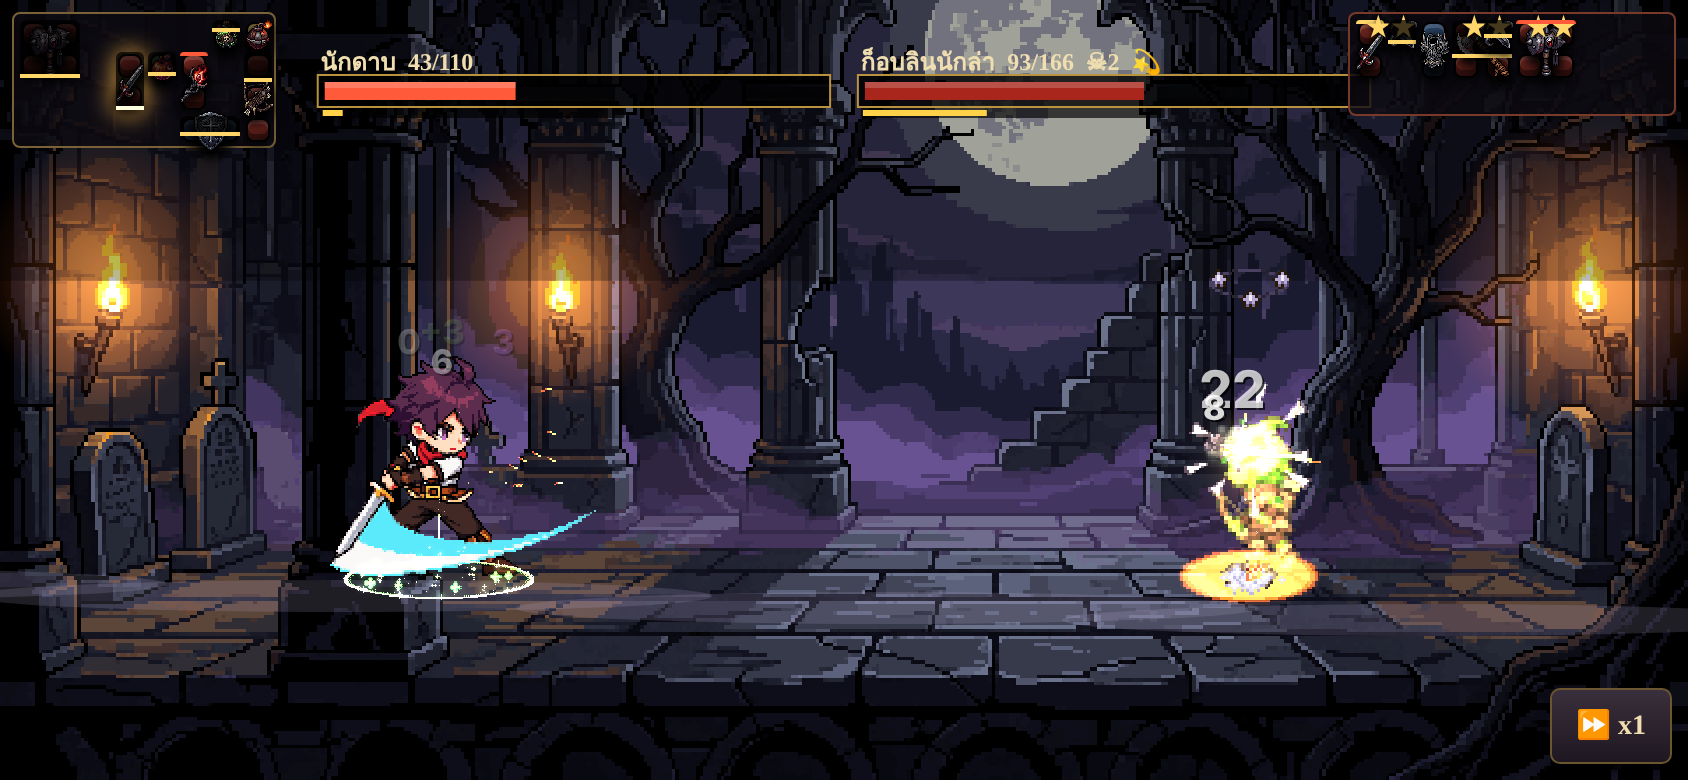
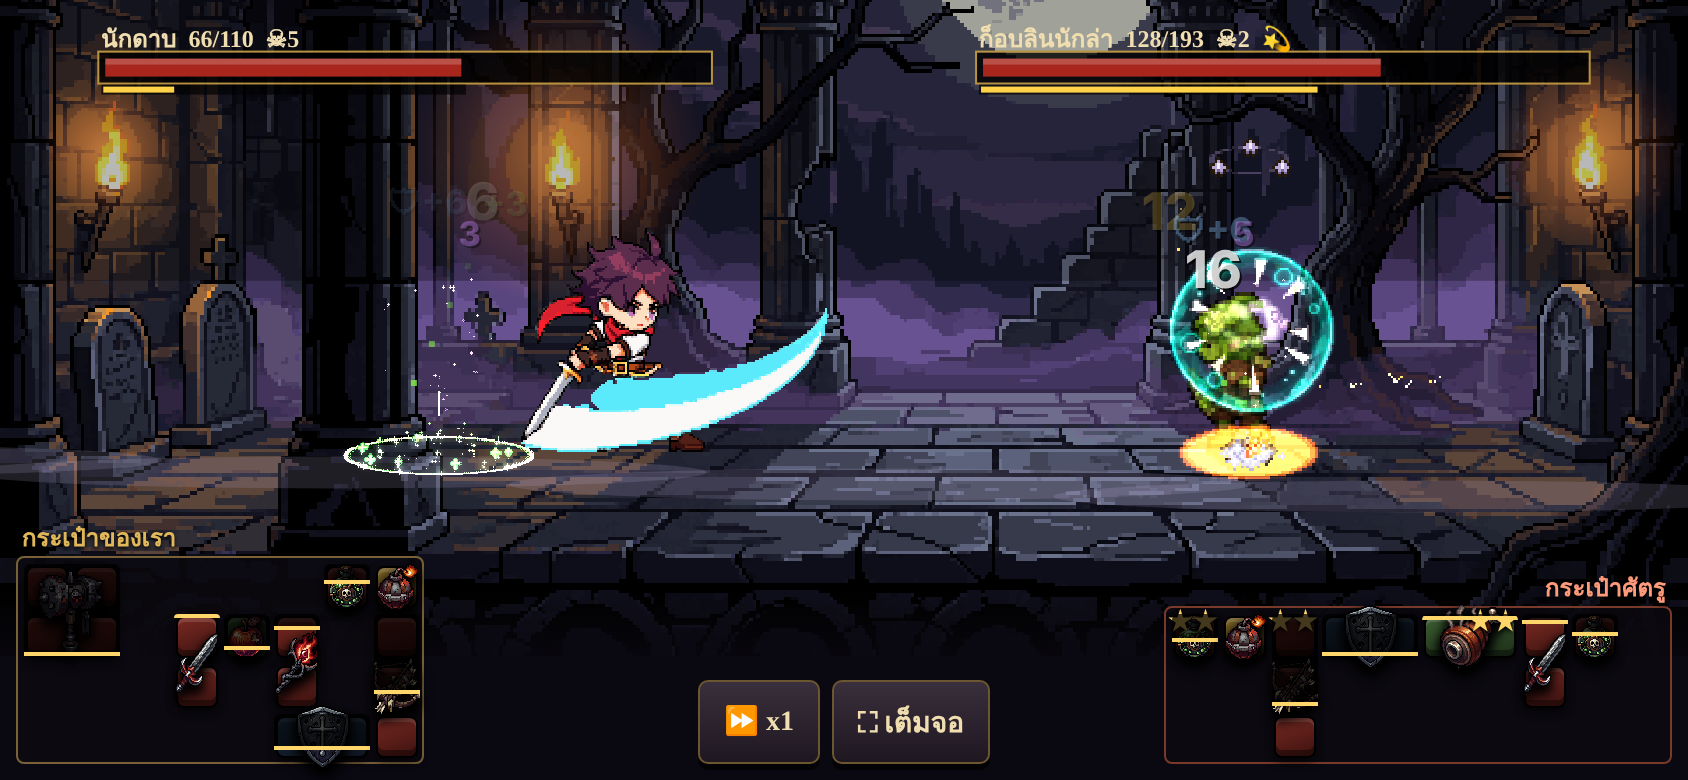
bag.html: battle layout with both bags along the bottom
Claude-Session: https://claude.ai/code/session_01TXxUxQ6wjWh66ESj3NLopA

diff --git a/bag.html b/bag.html
@@ -61,8 +61,8 @@ h1{margin:0;font-size:17px;color:#e0b85a;letter-spacing:2px;text-shadow:0 2px 4p
 .it b .ico{filter:drop-shadow(0 3px 3px #000c)}
 .it s{position:absolute;left:1px;right:1px;top:1px;background:#000b;border-bottom:2px solid #ffd66a;pointer-events:none;text-decoration:none;border-radius:3px 3px 0 0}.it s.wait{border-bottom-color:#ff5a3a;background:#3a0808b0}
 /* battle = full screen: the arena covers everything, both bags sit as small grids in the top corners */
-body.bt #arena{position:fixed;inset:0;z-index:5;border:0;border-radius:0}body.bt #btns{position:fixed;right:8px;bottom:8px;z-index:6}
-#mybag,#fbag{position:absolute;top:6px;background:#0d0a10cc;border:1px solid #7a6238;border-radius:4px}#mybag{left:6px}#fbag{right:6px;border-color:#7a3a2a}
+body.bt #arena{position:fixed;inset:0;z-index:5;border:0;border-radius:0}body.bt #btns{position:fixed;left:50%;transform:translateX(-50%);bottom:8px;z-index:6;flex-wrap:nowrap}
+#mybag,#fbag{position:absolute;bottom:8px;background:#0d0a10cc;border:1px solid #7a6238;border-radius:4px}#mybag{left:8px}#fbag{right:8px;border-color:#7a3a2a}#mybag:before,#fbag:before{content:'กระเป๋าของเรา';position:absolute;left:2px;top:-18px;font-size:12px;color:#e0b85a;text-shadow:0 1px 2px #000;white-space:nowrap}#fbag:before{content:'กระเป๋าศัตรู';left:auto;right:2px;color:#ff9a7a}
 </style></head><body>
 <div id="app"><div id="left"><div id="grid"></div><div id="tray"></div></div>
 <div id="right"><h1>⚔ กระเป๋านักดาบ · ตำนานรัตติกาล</h1><div id="top"></div><div id="shop"></div><div id="arena"><canvas id="cv"></canvas><div id="foe"></div><div id="mybag"></div><div id="fbag"></div></div>
@@ -108,7 +108,7 @@ const MOB={wolf:[50,38,6],shroom:[30,27,6],skeleton:[54,51,6],boar_guard:[74,69,
 // weapon effects: sprite sheets we already own in fx/ (manifest.json gives cell size, frames, anchor); drawn on the fighter that is hit / helped
 const FXI={},FXM={};fetch('fx/manifest.json').then(r=>r.json()).then(m=>{for(const k of['hit','crit','blunt','toxic','healring','cshield','blast','cfire0','gslam','zapice','blindstars','spark','poof']){FXM[k]=m[k];FXI[k]=new Image();FXI[k].src='fx/'+k+'.png'}});
 const WFX={dagger:['hit',1.5],sword:['hit',2],bow:['spark',1.6],axe:['crit',1.5],hammer:['gslam',2.2],wand:['blast',1.5],poison:['toxic',.9],bomb:['blast',3]};
-const FB=16,MELEE={dagger:[15,16,17],sword:[14,15,16,17],axe:[28,29,30,31],hammer:[39,40,41,42]},SPIN=[125,126,127,128,129,130];   // hero clips used for his own weapons: cells of chibi_pl.png (10+n = combo frame n, 120+ = spin)
+let FB=16;const MELEE={dagger:[15,16,17],sword:[14,15,16,17],axe:[28,29,30,31],hammer:[39,40,41,42]},SPIN=[125,126,127,128,129,130];   // hero clips used for his own weapons: cells of chibi_pl.png (10+n = combo frame n, 120+ = spin)
 const GW=8,GH=5;let CS=52,G,UID=1,sel=null,spd=+(localStorage.getItem('bag.spd')||1),BT=null;
 const rot=(sh,r)=>{let c=sh.map(p=>p.slice());for(let i=0;i<r;i++)c=c.map(([x,y])=>[-y,x]);const mx=Math.min(...c.map(p=>p[0])),my=Math.min(...c.map(p=>p[1]));return c.map(([x,y])=>[x-mx,y-my])};
 const cellsOf=(o,x=o.x,y=o.y,r=o.r)=>rot(IT[o.id].sh,r).map(([a,b])=>[x+a,y+b]);
@@ -201,7 +201,7 @@ for(const ev of['fullscreenchange','webkitfullscreenchange'])document.addEventLi
 const RAB=new Image();RAB.src='art/td/map1/hero_rabbit.png';let HK=localStorage.getItem('bag.hero')||'sword';const HN=()=>HK==='rabbit'?'กระต่ายนักสู้':'นักดาบ';
 const HERO=new Image();HERO.src='art/poses/combo/chibi_pl.png';const MIM={};for(const k in MOB){MIM[k]=new Image();MIM[k].src='art/td/map1/mob_'+k+'.png'}
 function startBattle(){const mine=G.items.filter(o=>o.bag);if(!mine.some(o=>IT[o.id].t==='w'))return say('⚠ ในกระเป๋าไม่มีอาวุธเลย! ใส่อาวุธ (สีแดง) อย่างน้อย 1 ชิ้นก่อน');sel=null;
- BT={A:build(mine,74+G.round*6),B:foe(G.round),T:0,fx:[],pj:[],sh:0,an:null,vf:[],ha:0,ea:0,hh:0,eh:0,done:0};draw();$('#foe').innerHTML='';say('');
+ BT={A:build(mine,74+G.round*6),B:foe(G.round),T:0,fx:[],pj:[],sh:0,an:null,vf:[],ha:0,ea:0,hh:0,eh:0,done:0};draw();$('#foe').innerHTML='';say('');FB=Math.max(16,Math.min(30,Math.floor(innerHeight*.34/5),Math.floor(innerWidth*.3/10)));   // bags along the bottom, as big as the screen allows
  {const mb=$('#mybag'),fb=$('#fbag'),xs=mine.flatMap(o=>cellsOf(o).map(c=>c[0])),ys=mine.flatMap(o=>cellsOf(o).map(c=>c[1])),x0=Math.min(...xs),y0=Math.min(...ys);mb.innerHTML=fb.innerHTML='';
   mb.style.width=(Math.max(...xs)-x0+1)*FB+4+'px';mb.style.height=(Math.max(...ys)-y0+1)*FB+4+'px';fb.style.width=FB*10+4+'px';fb.style.height=FB*3+4+'px';
   for(const o of mine){const el=itemEl(o,FB);el.style.left=(o.x-x0)*FB+2+'px';el.style.top=(o.y-y0)*FB+2+'px';mb.appendChild(el)}
@@ -217,11 +217,11 @@ let last=0;function loop(t){if(!BT)return;const dt=Math.min(.05,(t-last)/1000||0
   for(const[f,root]of[[b.A,'#mybag'],[b.B,'#fbag']])for(const w of f.its)if(w.cd){let el=w.el;if(el===undefined){const it=document.querySelector(`${root} [data-u="${w.u}"]`);el=w.el=it?it.appendChild(document.createElement('s')):null}if(el){el.style.height=Math.max(0,1-w.t/w.cd)*96+'%';el.className=w.t>=w.cd&&f.sta<w.sta?'wait':''}}   // cooldown shade on every working item: it drains, the item fires when it is gone (red = waiting for stamina)
  if(b.an){b.an.t+=dt/spd;if(b.an.t>=b.an.d)b.an=null}for(const pj of b.pj)pj.t+=dt/spd;b.pj=b.pj.filter(pj=>pj.t<.24);for(const f of b.fx)f.t+=dt/spd;b.fx=b.fx.filter(f=>f.t<.9);paint(t/1000);requestAnimationFrame(loop)}
 function scene(g,W,H,now,boss,gy){
- if(ARENA.width){const k=Math.max(W/480,H/272),w=480*k,h=272*k,x0=(W-w)/2,y0=H-h;g.drawImage(ARENA,x0,y0,w,h);   // PixelLab backdrop (1 credit); torches flicker, fog drifts, boss rounds turn red
+ if(ARENA.width){const k=Math.max(W/480,H/272),w=480*k,h=272*k,x0=(W-w)/2,y0=gy-214*k;g.fillStyle='#0a0810';g.fillRect(0,0,W,H);g.drawImage(ARENA,x0,y0,w,h);{const yb=y0+h-2,gr=g.createLinearGradient(0,yb-30,0,yb+10);gr.addColorStop(0,'rgba(10,8,16,0)');gr.addColorStop(1,'#0a0810');g.fillStyle=gr;g.fillRect(0,yb-30,W,40)}   // the backdrop ends under the floor: fade into the dark strip where the two bags sit   // PixelLab backdrop (1 credit); torches flicker, fog drifts, boss rounds turn red
   g.globalCompositeOperation='lighter';for(const[tx,ty]of[[30,128],[158,128],[452,128]]){const fl=.7+.3*Math.sin(now*11+tx),rg=g.createRadialGradient(x0+tx*k,y0+ty*k,0,x0+tx*k,y0+ty*k,46*k*fl);rg.addColorStop(0,'rgba(255,150,60,.45)');rg.addColorStop(1,'rgba(255,90,20,0)');g.fillStyle=rg;g.fillRect(x0+(tx-50)*k,y0+(ty-50)*k,100*k,100*k)}g.globalCompositeOperation='source-over';
   g.globalAlpha=.16;g.fillStyle='#c8b8e8';for(let i=0;i<4;i++){const x=((now*14*(1+i*.3)+i*W*.3)%(W*1.4))-W*.2;g.beginPath();g.ellipse(x,gy+4+i*6,W*.22,8,0,0,7);g.fill()}g.globalAlpha=1;
   if(boss){g.globalCompositeOperation='multiply';g.fillStyle='#ff7a5a';g.fillRect(0,0,W,H);g.globalCompositeOperation='source-over'}g.fillStyle='rgba(0,0,0,.28)';g.fillRect(0,0,W,H*.36);return}let s=g.createLinearGradient(0,0,0,gy);s.addColorStop(0,boss?'#1a0508':'#0a0a1c');s.addColorStop(.6,boss?'#4a1210':'#241a3a');s.addColorStop(1,boss?'#7a2a14':'#3a2a4a');g.fillStyle=s;g.fillRect(0,0,W,gy);
- g.fillStyle=boss?'#ffb08a':'#e8e4d0';g.beginPath();g.arc(W*.5,H*.2,H*.11,0,7);g.fill();g.fillStyle=boss?'#4a1210':'#241a3a';g.globalAlpha=.55;g.beginPath();g.arc(W*.5+H*.03,H*.18,H*.1,0,7);g.fill();g.globalAlpha=1;
+ g.fillStyle=boss?'#ffb08a':'#e8e4d0';g.beginPath();g.arc(W*.5,H*.2,H*.11,0,7);g.fill();g.fillStyle=boss?'#4a1210':'#241a3a';g.globalAlpha=.55;g.beginPath();g.arc(W*.5+H*.03,H*.18,H*.07,0,7);g.fill();g.globalAlpha=1;
  let q=7;const rnd=()=>(q=(q*9301+49297)%233280)/233280;g.fillStyle='#fff';for(let i=0;i<40;i++){g.globalAlpha=.25+.5*Math.abs(Math.sin(now*1.3+i));g.fillRect(rnd()*W,rnd()*gy*.6,1.5,1.5)}g.globalAlpha=1;
  g.fillStyle='#0d0a14';g.beginPath();g.moveTo(0,gy);for(let x=0;x<=W;x+=W/14)g.lineTo(x,gy-H*(.16+.14*rnd()));g.lineTo(W,gy);g.fill();
  g.fillStyle='#07060b';for(const[x,w,h]of[[.08,.05,.42],[.16,.03,.3],[.86,.05,.46],[.94,.035,.28]]){g.fillRect(W*x,gy-H*h,W*w,H*h);g.fillRect(W*x-4,gy-H*h-6,W*w+8,8)}   // broken pillars
@@ -229,11 +229,11 @@ function scene(g,W,H,now,boss,gy){
  s=g.createLinearGradient(0,gy,0,H);s.addColorStop(0,'#2a2030');s.addColorStop(1,'#0c0910');g.fillStyle=s;g.fillRect(0,gy,W,H-gy);g.fillStyle='#3a2e40';for(let i=0;i<9;i++)g.fillRect(rnd()*W,gy+rnd()*(H-gy),20+rnd()*40,2);
  g.globalAlpha=.22;g.fillStyle='#b8a8d8';for(let i=0;i<4;i++){const x=((now*12*(1+i*.3)+i*W*.3)%(W*1.4))-W*.2;g.beginPath();g.ellipse(x,gy-4+i*5,W*.2,7,0,0,7);g.fill()}g.globalAlpha=1}
 function paint(now){const cv=$('#cv'),r=cv.getBoundingClientRect(),dpr=devicePixelRatio||1,W=r.width,H=r.height,g=cv.getContext('2d'),b=BT;cv.width=Math.round(W*dpr);cv.height=Math.round(H*dpr);g.setTransform(dpr,0,0,dpr,0,0);g.imageSmoothingEnabled=false;
- const gy=ARENA.width?(H-272*Math.max(W/480,H/272))+214*Math.max(W/480,H/272):H*.8,sI=Math.max(1,Math.round(H*dpr/400)),px=v=>Math.round(v*dpr)/dpr;   // sI = whole device pixels per hero pixel (full size, never a fraction)
+ const gy=H*.58,sI=Math.max(1,Math.round(H*dpr/400)),px=v=>Math.round(v*dpr)/dpr;   // sI = whole device pixels per hero pixel (full size, never a fraction)
  scene(g,W,H,now,b.B.boss,gy);if(b.sh>0){g.translate(R(-1,1)*b.sh*40,R(-1,1)*b.sh*40)}
- const bar=(x,f,nm)=>{const w=W*.27,p=Math.max(0,f.hp)/f.max;g.fillStyle='#000c';g.fillRect(x-1,H*.1-1,w+2,15);g.strokeStyle='#b8923e';g.lineWidth=1;g.strokeRect(x-1.5,H*.1-1.5,w+3,16);g.fillStyle=p>.4?'#a8261c':'#ff5a3a';g.fillRect(x+2,H*.1+2,(w-4)*p,9);g.fillStyle='#fff3';g.fillRect(x+2,H*.1+2,(w-4)*p,3);g.fillStyle='#f0deb0';g.font='700 12px Georgia,serif';g.textAlign='left';
-  g.fillText(`${nm}  ${Math.max(0,Math.ceil(f.hp))}/${f.max}`+(f.blk>0?`  🛡${Math.round(f.blk)}`:'')+(f.poi>0?`  ☠${Math.round(f.poi)}`:'')+(f.burn>0?`  🔥${Math.round(f.burn)}`:'')+(f.stun>0?'  💫':''),x,H*.1-4);g.fillStyle='#000a';g.fillRect(x,H*.1+15,w*.6,5);g.fillStyle='#ffd24a';g.fillRect(x+1,H*.1+16,(w*.6-2)*f.sta/f.stam,3)};
- bar(W*.2,b.A,HN());bar(W*.51,b.B,b.B.name);
+ const bar=(x,f,nm)=>{const w=W*.36,p=Math.max(0,f.hp)/f.max;g.fillStyle='#000c';g.fillRect(x-1,H*.07-1,w+2,15);g.strokeStyle='#b8923e';g.lineWidth=1;g.strokeRect(x-1.5,H*.07-1.5,w+3,16);g.fillStyle=p>.4?'#a8261c':'#ff5a3a';g.fillRect(x+2,H*.07+2,(w-4)*p,9);g.fillStyle='#fff3';g.fillRect(x+2,H*.07+2,(w-4)*p,3);g.fillStyle='#f0deb0';g.font='700 12px Georgia,serif';g.textAlign='left';
+  g.fillText(`${nm}  ${Math.max(0,Math.ceil(f.hp))}/${f.max}`+(f.blk>0?`  🛡${Math.round(f.blk)}`:'')+(f.poi>0?`  ☠${Math.round(f.poi)}`:'')+(f.burn>0?`  🔥${Math.round(f.burn)}`:'')+(f.stun>0?'  💫':''),x,H*.07-4);g.fillStyle='#000a';g.fillRect(x,H*.07+15,w*.6,5);g.fillStyle='#ffd24a';g.fillRect(x+1,H*.07+16,(w*.6-2)*f.sta/f.stam,3)};
+ bar(W*.06,b.A,HN());bar(W*.58,b.B,b.B.name);
  const k=Math.max(1,Math.round(H/170));let cell=60+(now*6|0)%8,hx=0;if(b.A.hp<=0)cell=87;else if(b.an){const q=b.an.t/b.an.d;cell=b.an.seq[Math.min(b.an.seq.length-1,q*b.an.seq.length|0)];hx=Math.sin(Math.min(1,q*1.25)*3.14)*W*.27}else if(b.hh>0){cell=71;hx=-W*.03*b.hh/.2}
  if(HK==='rabbit'&&RAB.width){const s=sI/dpr,x=W*.26+hx,dead=b.A.hp<=0,at=b.an?Math.sin(Math.min(1,b.an.t/b.an.d)*3.14):0,bob=dead?0:Math.round(Math.sin(now*4)*1.2);g.save();g.translate(px(x),px(gy));if(dead){g.rotate(-1.45);g.globalAlpha=.75}else if(b.hh>0)g.rotate(-.12);else if(at>0)g.rotate(.14*at);g.scale(s*(1+.06*at),s*(1-.05*at));g.drawImage(RAB,137,0,137,128,-68,-126+bob,137,128);g.restore()}
  else if(HERO.width){const s=sI/dpr,x=W*.26+hx;g.drawImage(HERO,cell%10*204,(cell/10|0)*204,204,204,px(x-103*s),px(gy-174*s),204*s,204*s)}
@@ -243,7 +243,7 @@ function paint(now){const cv=$('#cv'),r=cv.getBoundingClientRect(),dpr=devicePix
 {const dv=(v,X,Y)=>{const m=FXM[v.k],im=FXI[v.k];if(!m||!im.width||v.t<0)return;const f=Math.min(m.n-1,v.t*m.fps|0),z=v.sc*sI/dpr*.6;g.drawImage(im,f%m.cols*m.w,(f/m.cols|0)*m.h,m.w,m.h,X-m.ax*z,Y-m.ay*z,m.w*z,m.h*z)};
   g.globalCompositeOperation='lighter';for(const v of b.vf)dv(v,W*(v.s?.74:.26),gy-(v.k==='gslam'||v.k==='healring'?0:H*.16));g.globalCompositeOperation='source-over';
   for(const[f,x]of[[b.A,W*.26],[b.B,W*.74]]){if(f.hp<=0)continue;if(f.stun>0)dv({k:'blindstars',t:now%1,sc:2.4},x,gy-H*.36);if(f.burn>0){g.globalCompositeOperation='lighter';dv({k:'cfire0',t:(now*1.3)%.4,sc:1.2+Math.min(1.5,f.burn*.15)},x+6,gy-H*.06);g.globalCompositeOperation='source-over'}
-   if(f.poi>0){g.fillStyle='#7fe04a';for(let i=0;i<4;i++){const q=(now*.9+i*.25)%1;g.globalAlpha=1-q;g.fillRect(x-14+i*9,gy-H*.1-q*H*.2,3,3)}g.globalAlpha=1}}}
+   if(f.poi>0){g.fillStyle='#7fe04a';for(let i=0;i<4;i++){const q=(now*.9+i*.25)%1;g.globalAlpha=1-q;g.fillRect(x-14+i*9,gy-H*.07-q*H*.2,3,3)}g.globalAlpha=1}}}
  g.textAlign='center';for(const f of b.fx){g.font=`800 ${f.big?26:17}px system-ui`;g.globalAlpha=Math.max(0,1-f.t/.9);g.fillStyle='#000';g.fillText(f.v,W*(f.x+f.dx)+1,gy-70*k*.5-f.t*60+1);g.fillStyle=f.c;g.fillText(f.v,W*(f.x+f.dx),gy-70*k*.5-f.t*60)}g.globalAlpha=1;
  if(b.T>28&&!b.done){g.setTransform(dpr,0,0,dpr,0,0);g.font='700 13px Georgia,serif';g.fillStyle='#ffb0a0';g.fillText('⏳ เหนื่อยล้า! ทั้งคู่เสียเลือดเรื่อยๆ',W/2,H*.16)}}
 function endBattle(){const b=BT;BT=null;const win=b.win,pig=G.items.filter(o=>o.bag&&IT[o.id].gold).reduce((s,o)=>s+o.lv,0),inc=9+Math.min(6,G.round>>1)+(win?2:0)+pig;let h;

diff --git a/docs/action-game.md b/docs/action-game.md
@@ -1213,3 +1213,4 @@ Rabbit, second GPT try (`rabbit/gpt_small_v1.png`, 2172x724): real blocks ~14 x 
 Rabbit 52 px: owner "ไม่ชัด" about `small_snap.png` → `GPTPX_GRID=13,14.6 gptpx.py gpt_small_v1.png small_gptpx.png 22` is cleaner (majority colour per block, outline, 127x54); face and armour still a bit busy. Cleaner than that = PixelLab B (1 credit, not ordered).
 Rabbit B on the map (owner "เอา B … ลงในเกม ปรับให้เท่าขนาดจริงไม่ต้องย่อ จะดูในแมพ"): `map.html?hero=rabbit&px=1` = `pl_small128.png` cut by `chibi_map_hero.py … hero_rabbit 1500 halo` (3 stills, cells 137x128, feet 68,126), one screen pixel per art pixel like the swordsman; walks with a bob, no clips, no attack (the PixelLab clip sheet now loads only for `pl:1` = the swordsman). Picture `rabbit/map_rabbit.png`.
 bag.html: hero switch button (`#hero`, saved as `bag.hero`): swordsman (clips) or the rabbit brawler (owner "ไม่ดิ เอาลง backpack"; stills only: side still of `hero_rabbit.png` at full pixel size, moved by code: breathing bob, lunge + lean on melee items, lean back when hit, falls flat when dead). Same stats for both.
+bag.html battle layout (owner "ปรับจอ ให้หน้ากระเป๋าอยู่ข้างล่าง"): the two bags now sit along the BOTTOM (ours left, the enemy right, labelled, cell `FB` 16-30 px by screen size) on a dark strip under the floor; fighters stand on a floor line at 58% of the height (the backdrop moves with it); HP bars full width at the top; speed / full-screen buttons bottom centre.
